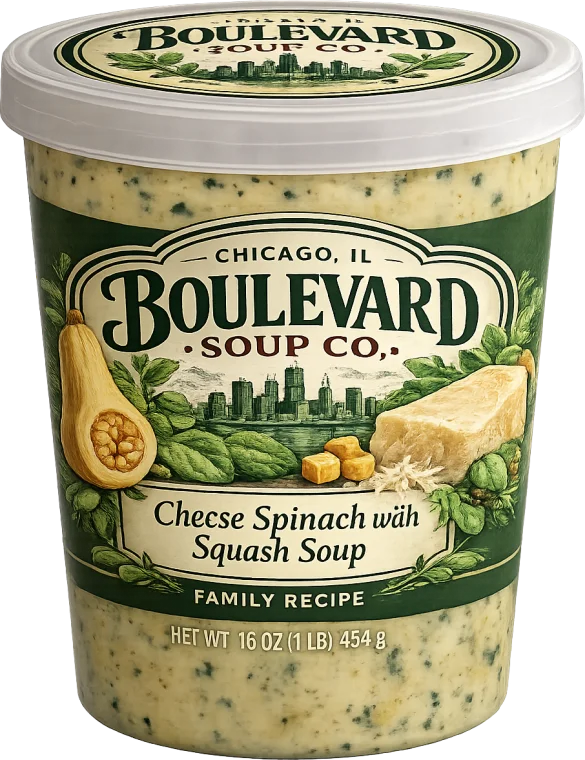
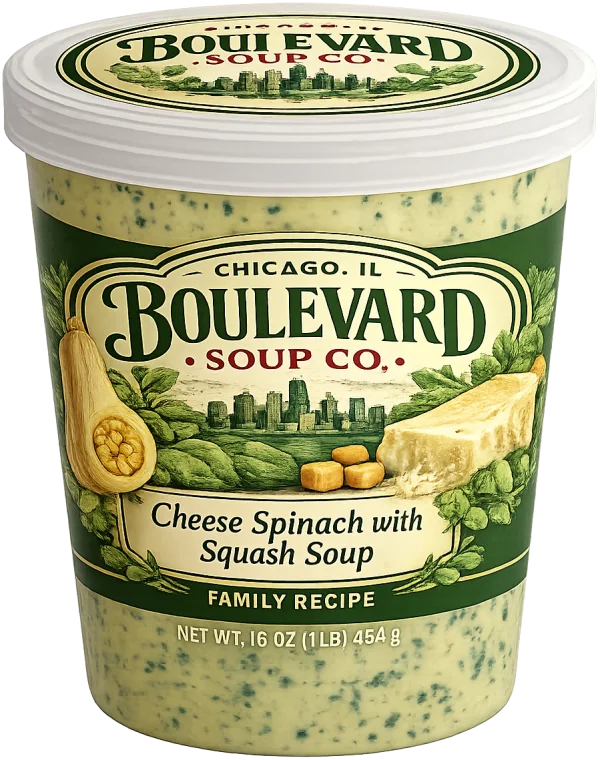
Fix Cheese Spinach with Squash tub label text

diff --git a/index.html b/index.html
@@ -1780,7 +1780,7 @@ section[id], [id$="-title"], #all-soups { scroll-margin-top: 96px; }
     '</svg>';
   }
 
-  var REAL_TUBS = [['chicken-noodle', 544 / 760], ['tomato-bisque', 518 / 760], ['creamy-spinach', 659 / 760], ['potato-bacon', 583 / 760], ['minestrone', 595 / 760], ['chili', 590 / 760], ['lemon-chicken', 543 / 760], ['beef-goulash', 526 / 760], ['cheese-spinach-squash', 585 / 760], ['mushroom-barley', 598 / 760], ['tomato-basil', 524 / 760]];
+  var REAL_TUBS = [['chicken-noodle', 544 / 760], ['tomato-bisque', 518 / 760], ['creamy-spinach', 659 / 760], ['potato-bacon', 583 / 760], ['minestrone', 595 / 760], ['chili', 590 / 760], ['lemon-chicken', 543 / 760], ['beef-goulash', 526 / 760], ['cheese-spinach-squash', 600 / 760], ['mushroom-barley', 598 / 760], ['tomato-basil', 524 / 760]];
   var tubsEl = document.getElementById('tubs');
   var ROTS = [-16, 9, -7, 15, -11, 6, -14, 10];
   var YOS = [36, -24, 44, -12, 24, -34, 30, -18];
@@ -1804,7 +1804,7 @@ section[id], [id$="-title"], #all-soups { scroll-margin-top: 96px; }
       d.className = 'tub-item';
       d.style.width = tw + 'px';
       var R = REAL_TUBS[i % REAL_TUBS.length];
-      d.innerHTML = '<img src="img/tubs/' + R[0] + '.webp?v=3" alt="" draggable="false" width="' + Math.round(R[1] * 760) + '" height="760">';
+      d.innerHTML = '<img src="img/tubs/' + R[0] + '.webp?v=4" alt="" draggable="false" width="' + Math.round(R[1] * 760) + '" height="760">';
       tubsEl.appendChild(d);
       tubs.push({ el: d, base: i * spacing, w: tw, h: tw / R[1], rot: ROTS[i % ROTS.length], yo: YOS[i % YOS.length] * (mobile ? .5 : 1), phase: i * 1.3, y: 0, vy: 0, settled: true, delay: 0, spin: 0, blur: -1 });
     }

diff --git a/sales/index.html b/sales/index.html
@@ -644,7 +644,7 @@ body[data-tone="light"] .dots { color: var(--navy); }
   soups.forEach(function (s, i) { var li = document.createElement('li'); li.textContent = s; li.setAttribute('data-a', 'fade'); li.style.setProperty('--d', (0.25 + i * 0.04).toFixed(2) + 's'); menu.appendChild(li); });
   var tubs = ['chicken-noodle','tomato-bisque','creamy-spinach','potato-bacon','minestrone','chili','lemon-chicken','beef-goulash','cheese-spinach-squash','mushroom-barley','tomato-basil'];
   var rail = document.getElementById('rail'), html = '';
-  for (var k = 0; k < 2; k++) tubs.forEach(function (t) { html += '<img src="../img/tubs/' + t + '.webp?v=3" alt="" loading="lazy">'; });
+  for (var k = 0; k < 2; k++) tubs.forEach(function (t) { html += '<img src="../img/tubs/' + t + '.webp?v=4" alt="" loading="lazy">'; });
   rail.innerHTML = html;
 
   // dots
